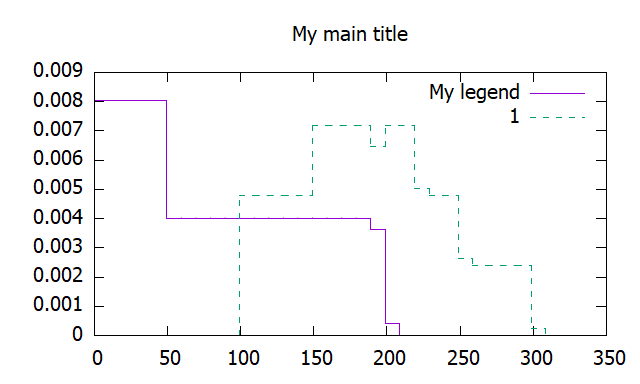
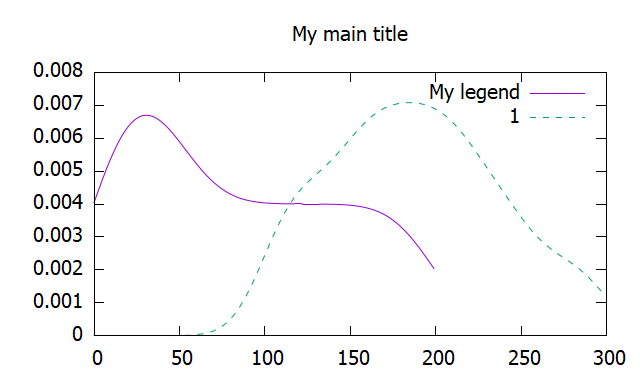
Simplify densities (and correct them) by using smooth kdensity (gaussian kernels) from gnuplot

diff --git a/src/density/comparison.rs b/src/density/comparison.rs
@@ -141,54 +141,14 @@ where
 
         // Treat each data to a prob distr funct
 
-        for (counter, density) in self.data_set.iter().enumerate() {
-            // Values for the histogram
-
-            let n = 20;
-            let (mut min, mut max, mut length);
-            length = 0;
-
+        for density in self.data_set.iter() {
             let mut realizations = density.realizations.clone().into_iter();
-            match realizations.next() {
-                Some(value) => {
-                    min = value.clone();
-                    max = value;
-                    length += 1;
-                    for val in realizations {
-                        // let val = val.into();
-                        if val < min {
-                            min = val.clone();
-                        }
-                        if val > max {
-                            max = val;
-                        }
-                        length += 1;
-                    }
-
-                    // Gnuplot section
-
-                    gnuplot_script += &format!("nbins_{} = {}.0 #number of bins\n", counter, n);
-                    gnuplot_script += &format!("max_{} = {} #max value\n", counter, max);
-                    gnuplot_script += &format!("min_{} = {} #min value\n", counter, min);
-                    gnuplot_script +=
-                        &format!("len_{} = {}.0 #number of values\n", counter, length);
-                    gnuplot_script += &format!(
-                        "width_{} = ({} - {}) / nbins_{} #width\n\n",
-                        counter, max, min, counter
-                    );
-                    gnuplot_script += "# function used to map a value to the intervals\n";
-                    gnuplot_script += &format!(
-                        "hist_{}(x,width_{}) = width_{} * floor(x/width_{}) + width_{} / 2.0\n\n",
-                        counter, counter, counter, counter, counter
-                    );
-                }
-                None => {
-                    std::io::Error::new(
-                        std::io::ErrorKind::Other,
-                        "No data to plot: There are no realizations, so no script can be prepared.",
-                    );
-                }
-            }
+            if let None = realizations.next() {
+                std::io::Error::new(
+                    std::io::ErrorKind::Other,
+                    "No data to plot: There are no realizations, so no script can be prepared.",
+                );
+            } 
         }
 
         gnuplot_script += "plot ";
@@ -221,12 +181,9 @@ where
             };
 
             gnuplot_script += &format!(
-                "{:?} using (hist_{}($1,width_{})):(1.0/(width_{}*len_{})) smooth frequency with {} title \"{}\" dashtype {}, ",
+                "{:?} using 1:({}) smooth kdensity with {} title \"{}\" dashtype {}, ",
                 inner_path,
-                counter,
-                counter,
-                counter,
-                counter,
+                1. / density.realizations.len() as f64,
                 distribution_style,
                 legend,
                 dashtype,

diff --git a/src/density.rs b/src/density.rs
@@ -65,7 +65,6 @@ where
     {
         let realizations: Vec<T> = realizations.into_iter().collect();
         let mut config = crate::configuration::Configuration::default();
-        config.set_style(crate::configuration::plot::style::Style::Histeps);
         config.set_custom("cdf", "true");
         config.set_custom("pdf", "true");
         config.set_custom("cloud", "true");
@@ -202,40 +201,21 @@ where
         let mut gnuplot_script = self.opening_plot_script();
 
         gnuplot_script += "set zeroaxis\n";
+        
         // Values for the histogram
 
-        let n = 20;
-        let (mut min, mut max, mut length);
-        length = 0;
+        let mut length = 0;
 
         let mut realizations = self.realizations.clone().into_iter();
         match realizations.next() {
-            Some(value) => {
-                min = value.clone();
-                max = value;
-                length += 1;
-                for val in realizations {
-                    if val < min {
-                        min = val.clone();
-                    }
-                    if val > max {
-                        max = val;
-                    }
-                    length += 1;
-                }
+            Some(_) => {
+                length += 1 + realizations.len();
 
                 // Gnuplot scrpit
 
                 gnuplot_script +=
                     "# Warning: this script only works when the data are real numbers. \n\n";
 
-                gnuplot_script += &format!("nbins = {}.0 #number of bins\n", n);
-                gnuplot_script += &format!("max = {} #max value\n", max);
-                gnuplot_script += &format!("min = {} #min value\n", min);
-                gnuplot_script += &format!("len = {}.0 #number of values\n", length);
-                gnuplot_script += &format!("width = ({} - {}) / nbins #width\n\n", max, min);
-                gnuplot_script += "# function used to map a value to the intervals\n";
-                gnuplot_script += "hist(x,width) = width * floor(x/width)\n\n";
                 let dashtype = match self.dashtype() {
                     Some(dashtype) => dashtype,
                     None => 1,
@@ -251,8 +231,9 @@ where
                         gnuplot_script += ", \\\n\t ";
                     }
                     gnuplot_script += &format!(
-                    	"{:?} using (hist($1,width)):(1./(width*len)) smooth frequency with {} dashtype {}",
+                    	"{:?} using 1:({}) smooth kdensity with {} dashtype {}", 
                     	self.data_path(),
+                        1. / length as f64,
                     	self.style(),
                     	dashtype,
                     );

diff --git a/src/lib.rs b/src/lib.rs
@@ -45,7 +45,7 @@
 //!     .plot("my_identifier")
 //!     .unwrap();
 //! ```
-//! <img src="https://user-images.githubusercontent.com/37874270/80872547-e27afe00-8cb2-11ea-9c9a-006d6793f133.png" height="200px">
+//! <img src="https://user-images.githubusercontent.com/37874270/86490968-88a5bb80-bd69-11ea-913b-9124f33629c0.png" height="200px">
 //!
 //! Save some data (mostly numerical: matrices, simulation results and related errors, etc).
 //! ```no_run

diff --git a/examples/density/main.rs b/examples/density/main.rs
@@ -5,7 +5,6 @@ fn main() -> anyhow::Result<()> {
 
     pre::Density::new(values)
         .set_title("My empirical density")
-        .set_logx(2)
         .plot("my identifier")?;
 
     Ok(())

diff --git a/To do.md b/To do.md
@@ -1,5 +1,6 @@
-- [ ] Density graphs are not correct:
-  - It is not an empirical distribution: 
-    - it does not integrate to one, 
-    - specially if there are less than 20 classes.
-  - Can you have a dynamically chosen number of buckets?
+- [ ] Heatmaps:
+  - It is a recurrent plotting
+  - [ ] Do comparisons by grid-plotting.
+- [ ] Check out: 
+  - https://serialmentor.com/dataviz/
+  - https://serialmentor.com/
